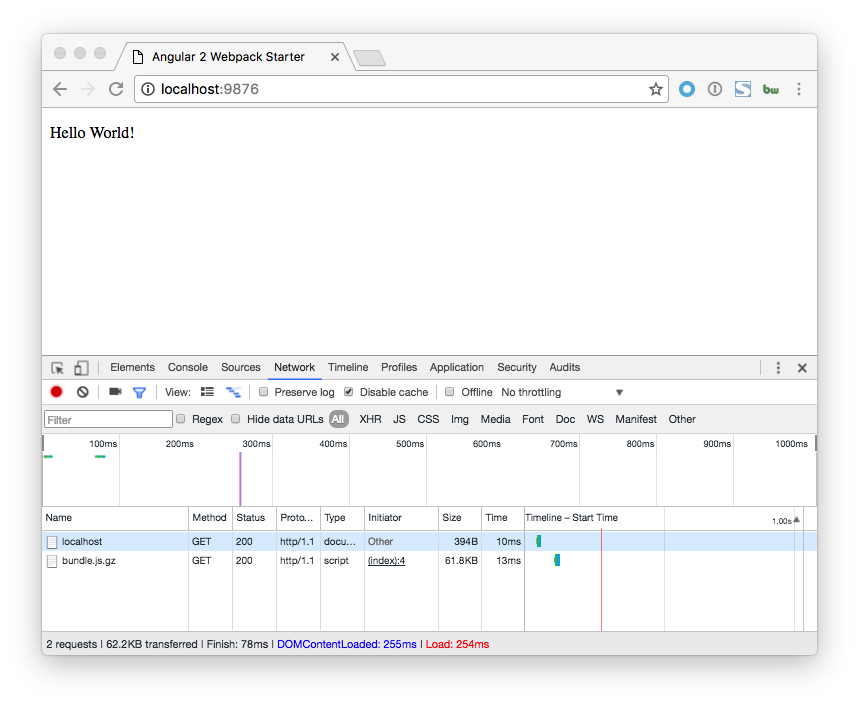
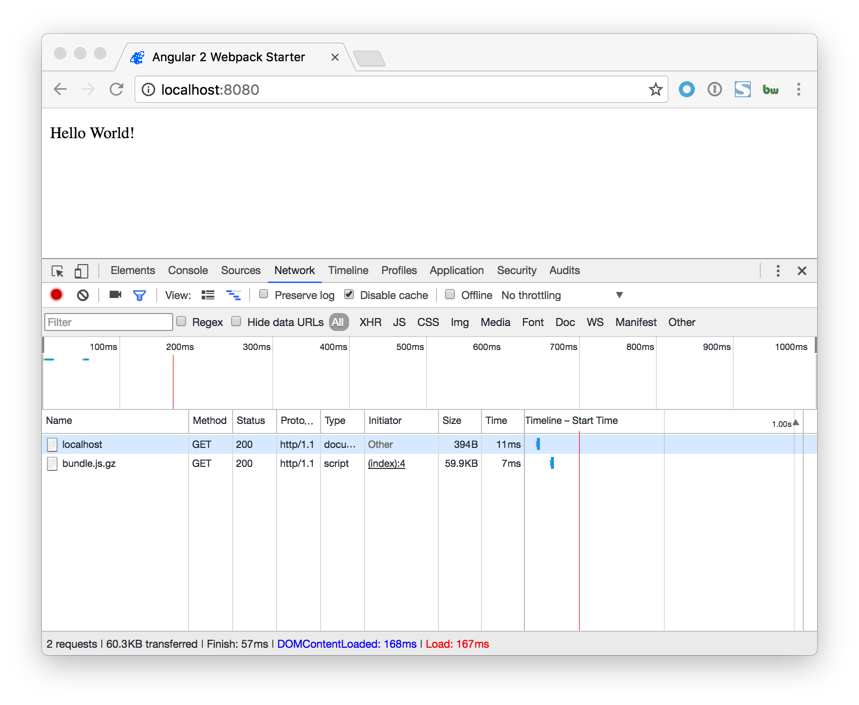
Add usage of Closure compiler.

diff --git a/rollup.js b/rollup.js
@@ -1,7 +1,21 @@
-import rollup      from 'rollup'
 import nodeResolve from 'rollup-plugin-node-resolve'
 import commonjs    from 'rollup-plugin-commonjs'
 import uglify      from 'rollup-plugin-uglify'
+import * as closure from 'google-closure-compiler-js'
+
+function closureCompilerPlugin(options = {}){
+    return {
+        transformBundle(bundle){
+            const compilation = Object.assign({}, options, {
+                jsCode: options.jsCode ? options.jsCode.concat({ src: bundle }) : [{ src: bundle }]
+            });
+            console.log('closure compiler optimizing...');
+            const transformed = closure.compile(compilation);
+            console.log('closure compiler optimizing complete');
+            return { code: transformed.compiledCode, map: transformed.sourceMap };
+        }
+    }
+}
 
 export default {
     entry: 'dist/src/entry.js',
@@ -16,6 +30,7 @@ export default {
                 'node_modules/core-js/**',
             ],
         }),
-        uglify()
+        closureCompilerPlugin({ compilationLevel: 'SIMPLE' }),
+        uglify(),
     ]
 }

diff --git a/config/webpack.deploy.js b/config/webpack.deploy.js
@@ -8,9 +8,9 @@ const common = require('./webpack.common')
 
 module.exports = merge(common, {
     entry: {
-        polyfills: './src/polyfills-prod',
-        vendors: './src/vendors-prod',
-        main: './src/main-prod',
+        polyfills: './src/polyfills',
+        vendors: './src/vendors',
+        main: './src/main',
     },
     module: {
         loaders: [
@@ -46,6 +46,9 @@ module.exports = merge(common, {
         extensions: ['', '.ts', '.ts', '.js', '.json']
     },
     plugins: [
+        new webpack.DefinePlugin({
+            IS_PRODUCTION: JSON.stringify(true),
+        }),
         new webpack.optimize.CommonsChunkPlugin({
             name: ['polyfills', 'vendors', 'main'].reverse(),
             minChunks: Infinity

diff --git a/config/webpack.debug.js b/config/webpack.debug.js
@@ -51,8 +51,7 @@ module.exports = merge(common, {
             minChunks: Infinity
         }),
         new HtmlWebpackPlugin({
-            template: 'src/index.html',
-            chunks: ['main/mai']
+            template: 'src/index.html'
         }),
         new ExtractTextPlugin('styles.css'),
     ],

diff --git a/README.md b/README.md
@@ -1,5 +1,5 @@
 # Angular 2 Webpack Starter
 
-AOT + Tree-shaking + Minify + Gzip => 62.2KB
+AOT + Tree-shaking + Minify + Gzip => 60.3KB
 
 ![Network Screenshot](./network.png)
